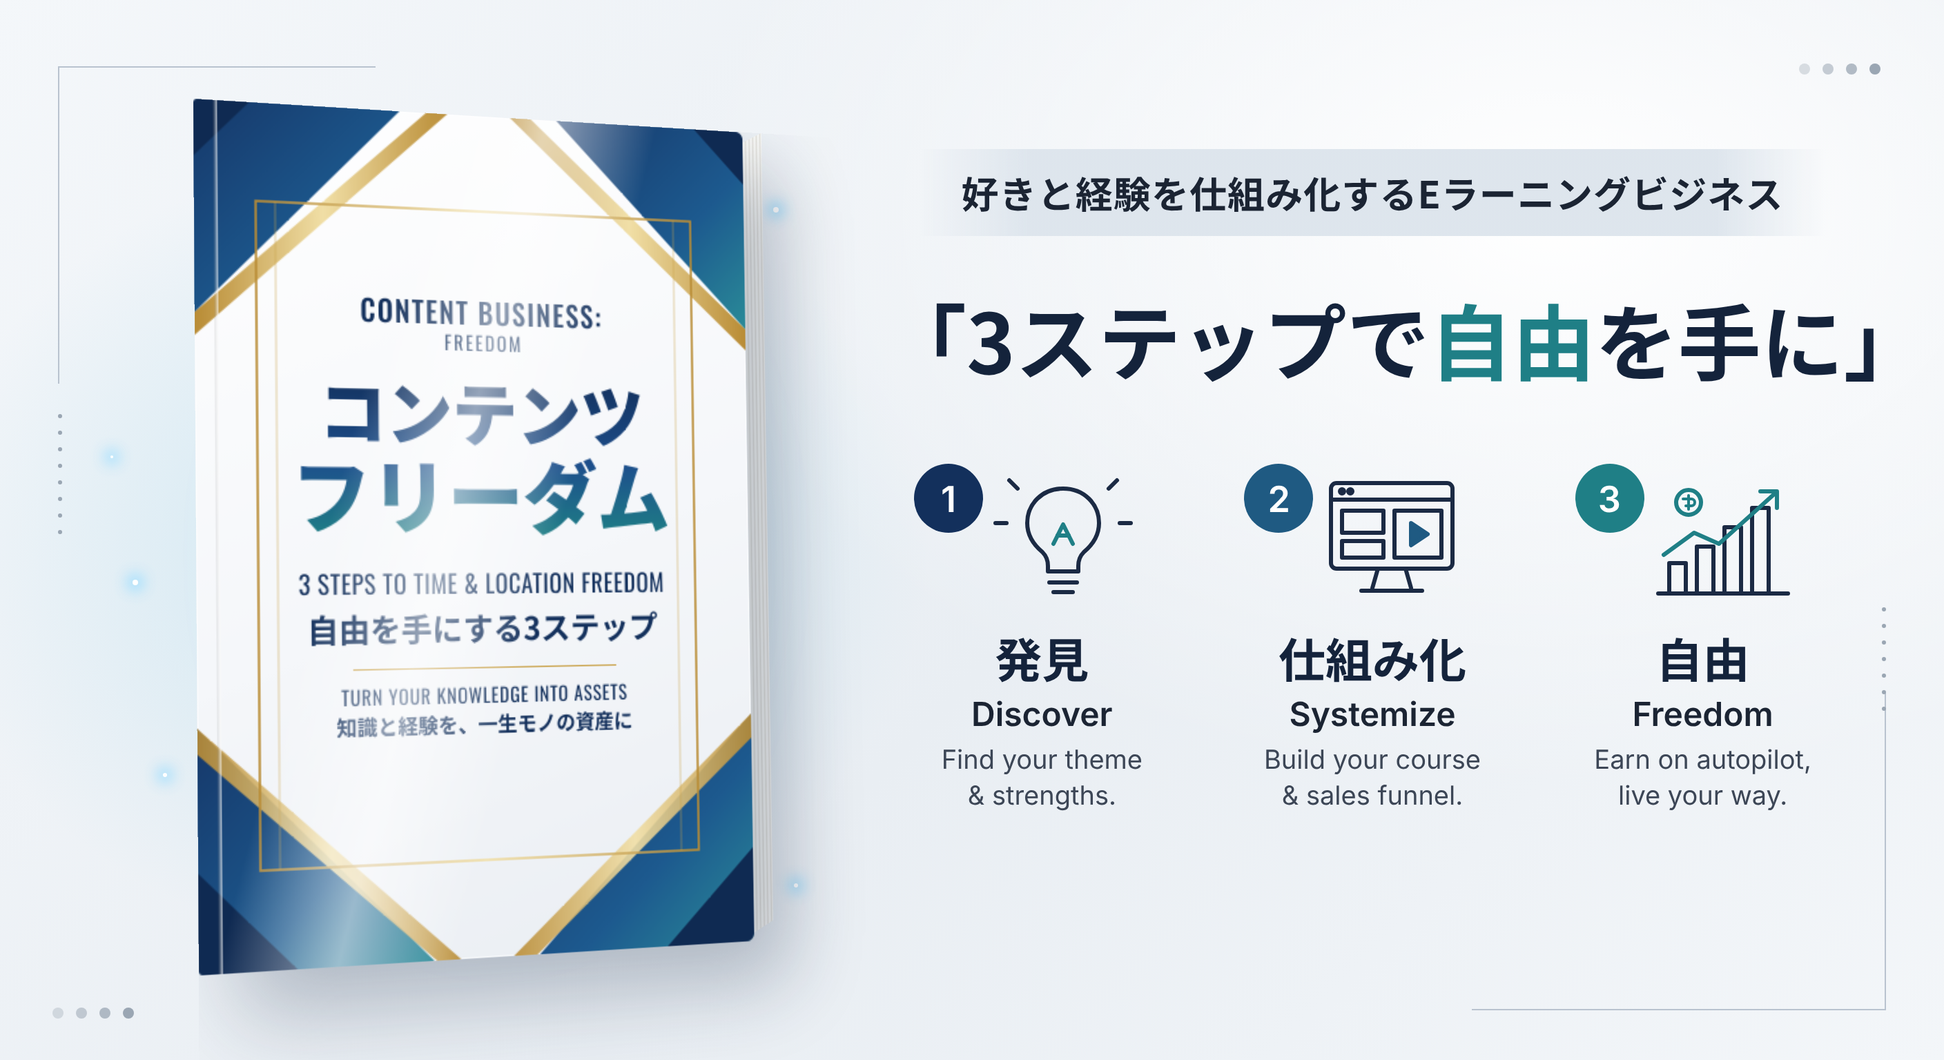
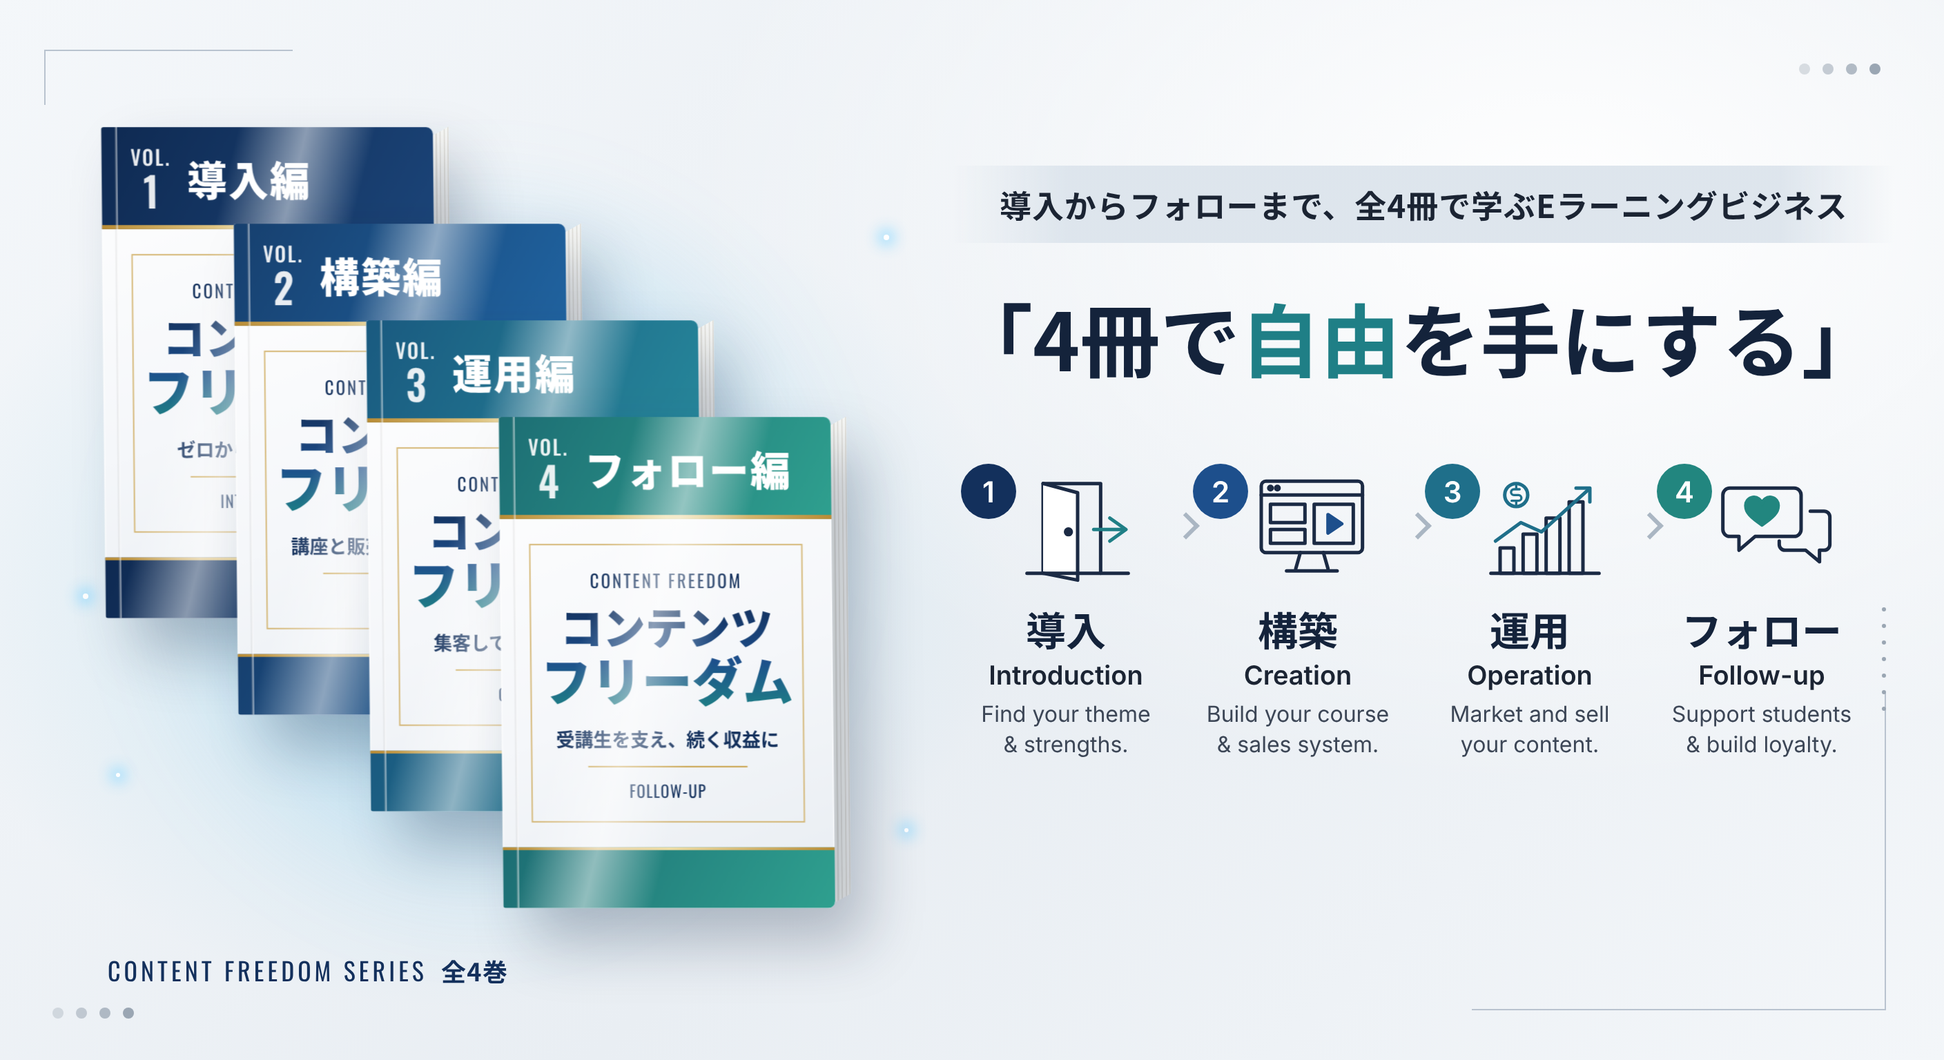
Show Content Freedom as a 4-volume series (intro to follow-up)
Claude-Session: https://claude.ai/code/session_01B6jzY4wT8CYfyJRjWWeuhY

diff --git a/content-freedom-catch/index.html b/content-freedom-catch/index.html
@@ -10,9 +10,7 @@
     --navy: #13305c;
     --blue: #1d4f8c;
     --teal: #1f7f86;
-    --teal2: #2a9d9a;
     --gold: #c9a24a;
-    --gold-l: #ead9a6;
     --ink: #1b2433;
     --muted: #3c4656;
   }
@@ -22,7 +20,7 @@
     font-family: "Noto Sans JP", "IPAGothic", sans-serif;
     color: var(--ink);
     background:
-      radial-gradient(ellipse 520px 420px at 22% 52%, rgba(120, 200, 230, .28), transparent 70%),
+      radial-gradient(ellipse 560px 440px at 24% 55%, rgba(120, 200, 230, .28), transparent 70%),
       radial-gradient(ellipse 900px 600px at 80% 20%, #ffffff, transparent 70%),
       linear-gradient(135deg, #f4f7fa 0%, #e9eef3 55%, #f3f6f9 100%);
     position: relative;
@@ -30,7 +28,7 @@
 
   /* ---------- decorative frame ---------- */
   .corner { position: absolute; border-color: #b9c3cf; border-style: solid; }
-  .corner.tl { left: 42px; top: 48px; width: 230px; height: 230px; border-width: 1px 0 0 1px; }
+  .corner.tl { left: 32px; top: 36px; width: 180px; height: 40px; border-width: 1px 0 0 1px; }
   .corner.br { right: 42px; bottom: 36px; width: 300px; height: 230px; border-width: 0 1px 1px 0; }
   .dots { position: absolute; display: flex; gap: 9px; }
   .dots i { width: 8px; height: 8px; border-radius: 50%; background: #9aa6b3; display: block; }
@@ -39,86 +37,92 @@
   .dots.bl { left: 38px; bottom: 30px; }
   .vdots { position: absolute; display: flex; flex-direction: column; gap: 9px; }
   .vdots i { width: 3px; height: 3px; border-radius: 50%; background: #9aa6b3; display: block; }
-  .vdots.l { left: 42px; top: 300px; } .vdots.r { right: 42px; top: 440px; }
+  .vdots.r { right: 42px; top: 440px; }
   .sparkle { position: absolute; border-radius: 50%; background: #fff; box-shadow: 0 0 10px 4px rgba(150, 220, 255, .9); }
 
-  /* ---------- book ---------- */
-  .book-wrap { position: absolute; left: 140px; top: 82px; width: 420px; height: 610px; perspective: 1600px; }
+  /* ---------- book series ---------- */
+  .shelf { position: absolute; left: 0; top: 0; width: 680px; height: 768px; perspective: 1800px; }
+  .glow {
+    position: absolute; left: 90px; top: 120px; width: 520px; height: 560px;
+    background: radial-gradient(ellipse at center, rgba(90, 190, 240, .5), transparent 70%);
+    filter: blur(30px);
+  }
   .book {
-    position: absolute; inset: 0;
-    transform: rotateY(18deg) rotateX(2deg);
+    position: absolute; width: 250px; height: 356px;
+    transform: rotateY(16deg) rotateX(2deg);
     transform-style: preserve-3d;
   }
-  .glow {
-    position: absolute; left: 30px; top: 40px; width: 380px; height: 560px;
-    background: radial-gradient(ellipse at center, rgba(90, 190, 240, .55), transparent 70%);
-    filter: blur(28px);
-  }
-  .spine {
-    position: absolute; left: 0; top: 0; width: 56px; height: 100%;
-    transform-origin: right center; transform: translateX(-56px) rotateY(-90deg) translateZ(0);
-    transform: translateX(-28px) translateZ(-28px) rotateY(-90deg);
-    background: linear-gradient(90deg, #e9edf2, #ffffff 45%, #dfe5ec);
-    display: flex; align-items: center; justify-content: center;
-  }
-  .spine span {
-    writing-mode: vertical-rl; font-family: "Oswald", sans-serif; font-weight: 500;
-    font-size: 17px; letter-spacing: .08em; color: var(--navy);
-  }
   .pages {
-    position: absolute; right: -16px; top: 8px; width: 16px; height: calc(100% - 14px);
+    position: absolute; right: -12px; top: 6px; width: 12px; height: calc(100% - 10px);
     background: repeating-linear-gradient(90deg, #fbfbf8 0 2px, #e7e5df 2px 3px);
     transform: skewY(-28deg); transform-origin: left top;
   }
   .cover {
-    position: absolute; inset: 0; border-radius: 3px 6px 6px 3px; overflow: hidden;
-    background: linear-gradient(160deg, #ffffff 0%, #f5f7fa 55%, #eaeef3 100%);
-    box-shadow: 30px 30px 60px rgba(20, 40, 70, .28), 0 0 0 1px rgba(255,255,255,.6) inset;
+    position: absolute; inset: 0; border-radius: 2px 5px 5px 2px; overflow: hidden;
+    background: linear-gradient(160deg, #ffffff 0%, #f5f7fa 55%, #e8edf2 100%);
+    box-shadow: 22px 24px 44px rgba(20, 40, 70, .28), 0 0 0 1px rgba(255,255,255,.6) inset;
   }
-  .cover::after { /* sheen */
+  .cover::after {
     content: ""; position: absolute; inset: 0;
-    background: linear-gradient(105deg, rgba(255,255,255,0) 30%, rgba(255,255,255,.55) 45%, rgba(255,255,255,0) 60%);
+    background: linear-gradient(105deg, rgba(255,255,255,0) 30%, rgba(255,255,255,.5) 45%, rgba(255,255,255,0) 60%);
   }
-  .hinge { position: absolute; left: 14px; top: 0; bottom: 0; width: 3px; background: linear-gradient(90deg, rgba(0,0,0,.08), rgba(255,255,255,.7)); }
-  .cover svg.deco { position: absolute; inset: 0; width: 100%; height: 100%; }
-  .cover-inner {
-    position: absolute; left: 50px; right: 46px; top: 132px; text-align: center;
+  .hinge { position: absolute; left: 10px; top: 0; bottom: 0; width: 2px; background: linear-gradient(90deg, rgba(0,0,0,.08), rgba(255,255,255,.7)); }
+  .band {
+    position: absolute; left: 0; right: 0; top: 0; height: 74px;
+    display: flex; align-items: center; gap: 12px; padding-left: 22px; color: #fff;
   }
-  .en-top { font-family: "Oswald", sans-serif; font-weight: 500; color: var(--navy); font-size: 21px; letter-spacing: .06em; line-height: 1.15; }
-  .en-top small { display: block; font-size: 14px; font-weight: 400; letter-spacing: .12em; margin-top: 2px; }
-  .jp-title {
-    margin-top: 14px; font-weight: 900; line-height: 1.08; font-size: 50px; letter-spacing: -.01em;
+  .band::after { content: ""; position: absolute; left: 0; right: 0; bottom: 0; height: 3px; background: linear-gradient(90deg, #b98c35, #f1dfa6, #b98c35); }
+  .vol { font-family: "Oswald", sans-serif; font-weight: 500; font-size: 15px; letter-spacing: .08em; line-height: 1; text-align: center; opacity: .9; }
+  .vol b { display: block; font-size: 30px; font-weight: 600; letter-spacing: 0; margin-top: 2px; }
+  .part { font-weight: 900; font-size: 30px; letter-spacing: .04em; }
+  .foot { position: absolute; left: 0; right: 0; bottom: 0; height: 44px; }
+  .foot::before { content: ""; position: absolute; left: 0; right: 0; top: 0; height: 2px; background: linear-gradient(90deg, #b98c35, #f1dfa6, #b98c35); }
+  .frame { position: absolute; left: 22px; right: 22px; top: 92px; bottom: 62px; border: 1px solid rgba(201,162,74,.75); }
+  .inner { position: absolute; left: 24px; right: 24px; top: 108px; text-align: center; }
+  .en { font-family: "Oswald", sans-serif; font-size: 13px; letter-spacing: .12em; color: var(--navy); }
+  .title {
+    margin-top: 6px; font-weight: 900; font-size: 32px; line-height: 1.1;
     background: linear-gradient(180deg, var(--navy) 0%, var(--blue) 55%, var(--teal) 100%);
     -webkit-background-clip: text; background-clip: text; color: transparent;
   }
-  .jp-title .big { font-size: 58px; white-space: nowrap; display: block; margin-top: 2px; }
-  .en-mid { margin-top: 20px; font-family: "Oswald", sans-serif; font-size: 18px; letter-spacing: .03em; color: var(--navy); }
-  .jp-mid { font-weight: 700; font-size: 23px; color: var(--navy); margin-top: 2px; }
-  .rule { width: 200px; height: 1px; background: var(--gold); margin: 12px auto 8px; }
-  .en-bot { font-family: "Oswald", sans-serif; font-size: 14px; letter-spacing: .05em; color: var(--navy); }
-  .jp-bot { font-weight: 700; font-size: 15px; color: var(--navy); }
+  .title span { display: block; font-size: 38px; }
+  .sub { margin-top: 12px; font-weight: 700; font-size: 14px; color: var(--navy); }
+  .rule { width: 120px; height: 1px; background: var(--gold); margin: 10px auto 8px; }
+  .sub-en { font-family: "Oswald", sans-serif; font-size: 12px; letter-spacing: .06em; color: var(--navy); }
+
+  .c1 .band, .c1 .foot { background: linear-gradient(120deg, #0f2a52, #1b4478); }
+  .c2 .band, .c2 .foot { background: linear-gradient(120deg, #17406f, #2063a0); }
+  .c3 .band, .c3 .foot { background: linear-gradient(120deg, #1a5a80, #26869a); }
+  .c4 .band, .c4 .foot { background: linear-gradient(120deg, #1d6e74, #2fa08f); }
+
+  .series-tag {
+    position: absolute; left: 78px; top: 690px;
+    font-family: "Oswald", sans-serif; font-size: 18px; letter-spacing: .14em; color: var(--navy);
+  }
+  .series-tag b { font-family: "Noto Sans JP", sans-serif; font-weight: 700; letter-spacing: .04em; margin-left: 10px; }
 
   /* ---------- right copy ---------- */
-  .copy { position: absolute; left: 640px; right: 60px; top: 108px; text-align: center; }
+  .copy { position: absolute; left: 690px; right: 50px; top: 120px; text-align: center; }
   .badge {
-    display: inline-block; padding: 12px 30px; font-weight: 700; font-size: 27px; color: var(--ink);
+    display: inline-block; padding: 11px 34px; font-weight: 700; font-size: 23px; white-space: nowrap; color: var(--ink);
     background: linear-gradient(90deg, rgba(220,228,236,0), rgba(220,228,236,.95) 12%, rgba(220,228,236,.95) 88%, rgba(220,228,236,0));
     letter-spacing: .02em;
   }
-  .headline { margin-top: 30px; font-weight: 700; font-size: 60px; letter-spacing: 0; color: #14233b; white-space: nowrap; }
+  .headline { margin-top: 26px; font-weight: 700; font-size: 58px; color: #14233b; white-space: nowrap; }
   .headline .hl { color: var(--teal); }
-  .steps { margin-top: 54px; display: grid; grid-template-columns: repeat(3, 1fr); gap: 10px; }
+  .steps { margin-top: 56px; display: grid; grid-template-columns: repeat(4, 1fr); gap: 4px; }
   .step { position: relative; display: flex; flex-direction: column; align-items: center; }
   .num {
-    position: absolute; left: 22px; top: -6px; width: 50px; height: 50px; border-radius: 50%;
-    color: #fff; font-family: "Inter", sans-serif; font-weight: 600; font-size: 26px;
+    position: absolute; left: 6px; top: -6px; width: 40px; height: 40px; border-radius: 50%;
+    color: #fff; font-family: "Inter", sans-serif; font-weight: 600; font-size: 21px;
     display: flex; align-items: center; justify-content: center;
   }
-  .s1 .num { background: var(--navy); } .s2 .num { background: #1f5a82; } .s3 .num { background: var(--teal); }
-  .icon { width: 110px; height: 96px; margin-left: 30px; }
-  .step h3 { margin-top: 14px; font-size: 34px; font-weight: 700; color: #14233b; }
-  .step h4 { font-family: "Inter", sans-serif; font-size: 24px; font-weight: 600; color: var(--ink); margin-top: 2px; }
-  .step p { font-family: "Inter", sans-serif; font-size: 19px; color: var(--muted); margin-top: 6px; line-height: 1.35; }
+  .s1 .num { background: #13305c; } .s2 .num { background: #1d4f8c; } .s3 .num { background: #1f6f8a; } .s4 .num { background: #22867f; }
+  .icon { width: 92px; height: 80px; margin-left: 22px; }
+  .step h3 { margin-top: 12px; font-size: 29px; font-weight: 700; color: #14233b; }
+  .step h4 { font-family: "Inter", sans-serif; font-size: 19px; font-weight: 600; color: var(--ink); margin-top: 2px; }
+  .step p { font-family: "Inter", sans-serif; font-size: 16px; color: var(--muted); margin-top: 6px; line-height: 1.35; }
+  .arrow { position: absolute; right: -12px; top: 32px; width: 14px; height: 14px; border-top: 3px solid #aab6c3; border-right: 3px solid #aab6c3; transform: rotate(45deg); }
 </style>
 </head>
 <body>
@@ -126,115 +130,112 @@
   <div class="corner br"></div>
   <div class="dots tr"><i></i><i></i><i></i><i></i></div>
   <div class="dots bl"><i></i><i></i><i></i><i></i></div>
-  <div class="vdots l"><i></i><i></i><i></i><i></i><i></i><i></i><i></i><i></i></div>
   <div class="vdots r"><i></i><i></i><i></i><i></i><i></i><i></i><i></i></div>
-  <span class="sparkle" style="left:96px;top:420px;width:4px;height:4px"></span>
-  <span class="sparkle" style="left:118px;top:560px;width:3px;height:3px"></span>
-  <span class="sparkle" style="left:560px;top:150px;width:4px;height:4px"></span>
-  <span class="sparkle" style="left:575px;top:640px;width:3px;height:3px"></span>
-  <span class="sparkle" style="left:80px;top:330px;width:2px;height:2px"></span>
+  <span class="sparkle" style="left:60px;top:430px;width:4px;height:4px"></span>
+  <span class="sparkle" style="left:640px;top:170px;width:4px;height:4px"></span>
+  <span class="sparkle" style="left:655px;top:600px;width:3px;height:3px"></span>
+  <span class="sparkle" style="left:84px;top:560px;width:3px;height:3px"></span>
 
-  <!-- book -->
-  <div class="book-wrap">
+  <!-- book series: back (Vol.1) to front (Vol.4) -->
+  <div class="shelf">
     <div class="glow"></div>
-    <div class="book">
-      <div class="spine"><span>CONTENT FREEDOM ・ コンテンツフリーダム</span></div>
-      <div class="pages"></div>
-      <div class="cover">
-        <svg class="deco" viewBox="0 0 420 610" preserveAspectRatio="none">
-          <defs>
-            <linearGradient id="bl" x1="0" y1="0" x2="1" y2="1">
-              <stop offset="0" stop-color="#16386a"/><stop offset=".6" stop-color="#1d5a8f"/><stop offset="1" stop-color="#2a8b98"/>
-            </linearGradient>
-            <linearGradient id="gd" x1="0" y1="0" x2="1" y2="0">
-              <stop offset="0" stop-color="#b98c35"/><stop offset=".5" stop-color="#f1dfa6"/><stop offset="1" stop-color="#b98c35"/>
-            </linearGradient>
-          </defs>
-          <!-- top-left / top-right triangles -->
-          <polygon points="0,0 150,0 0,150" fill="url(#bl)"/>
-          <polygon points="0,150 170,0 186,0 0,166" fill="url(#gd)"/>
-          <polygon points="420,0 270,0 420,150" fill="url(#bl)"/>
-          <polygon points="420,150 250,0 234,0 420,166" fill="url(#gd)"/>
-          <polygon points="0,0 40,0 0,40" fill="#0f2a52"/>
-          <polygon points="420,0 380,0 420,40" fill="#0f2a52"/>
-          <!-- bottom triangles -->
-          <polygon points="0,610 170,610 0,440" fill="url(#bl)"/>
-          <polygon points="0,440 190,610 172,610 0,458" fill="url(#gd)" opacity=".9"/>
-          <polygon points="420,610 250,610 420,440" fill="url(#bl)"/>
-          <polygon points="420,440 230,610 248,610 420,458" fill="url(#gd)" opacity=".9"/>
-          <polygon points="0,610 70,610 0,540" fill="#0f2a52"/>
-          <polygon points="420,610 350,610 420,540" fill="#0f2a52"/>
-          <!-- thin gold frame -->
-          <rect x="44" y="70" width="332" height="470" fill="none" stroke="url(#gd)" stroke-width="1.6"/>
-          <line x1="58" y1="70" x2="58" y2="540" stroke="#c9a24a" stroke-width=".8" opacity=".6"/>
-          <line x1="362" y1="70" x2="362" y2="540" stroke="#c9a24a" stroke-width=".8" opacity=".6"/>
-        </svg>
-        <div class="hinge"></div>
-        <div class="cover-inner">
-          <div class="en-top">CONTENT BUSINESS:<small>FREEDOM</small></div>
-          <div class="jp-title">コンテンツ<span class="big">フリーダム</span></div>
-          <div class="en-mid">3 STEPS TO TIME &amp; LOCATION FREEDOM</div>
-          <div class="jp-mid">自由を手にする3ステップ</div>
-          <div class="rule"></div>
-          <div class="en-bot">TURN YOUR KNOWLEDGE INTO ASSETS</div>
-          <div class="jp-bot">知識と経験を、一生モノの資産に</div>
-        </div>
-      </div>
-    </div>
+    <div id="books"></div>
+    <div class="series-tag">CONTENT FREEDOM SERIES<b>全4巻</b></div>
   </div>
 
   <!-- copy -->
   <div class="copy">
-    <div class="badge">好きと経験を仕組み化するEラーニングビジネス</div>
-    <div class="headline">「3ステップで<span class="hl">自由</span>を手に」</div>
+    <div class="badge">導入からフォローまで、全4冊で学ぶEラーニングビジネス</div>
+    <div class="headline">「4冊で<span class="hl">自由</span>を手にする」</div>
 
     <div class="steps">
       <div class="step s1">
         <div class="num">1</div>
         <svg class="icon" viewBox="0 0 110 96" fill="none" stroke="#1b2a44" stroke-width="3" stroke-linejoin="round" stroke-linecap="round">
-          <!-- lightbulb: discover your theme -->
-          <path d="M55 12c-15 0-26 11-26 25 0 9 5 16 11 21 3 3 4 6 4 10v4h22v-4c0-4 1-7 4-10 6-5 11-12 11-21 0-14-11-25-26-25z"/>
-          <line x1="45" y1="80" x2="65" y2="80"/><line x1="48" y1="87" x2="62" y2="87"/>
-          <path d="M48 52l7-14 7 14" stroke="#1f7f86"/><line x1="51" y1="46" x2="59" y2="46" stroke="#1f7f86"/>
-          <line x1="14" y1="37" x2="6" y2="37"/><line x1="96" y1="37" x2="104" y2="37"/>
-          <line x1="22" y1="12" x2="16" y2="6"/><line x1="88" y1="12" x2="94" y2="6"/>
+          <!-- open door / start -->
+          <path d="M22 88V10h50v78"/><path d="M22 10l30 8v76l-30-6" fill="#fff"/>
+          <circle cx="44" cy="52" r="2.5" fill="#1b2a44"/>
+          <line x1="8" y1="88" x2="96" y2="88"/>
+          <path d="M80 40l14 10-14 10" stroke="#1f7f86"/><line x1="66" y1="50" x2="93" y2="50" stroke="#1f7f86"/>
         </svg>
-        <h3>発見</h3>
-        <h4>Discover</h4>
+        <h3>導入</h3>
+        <h4>Introduction</h4>
         <p>Find your theme<br>&amp; strengths.</p>
+        <i class="arrow"></i>
       </div>
       <div class="step s2">
         <div class="num">2</div>
         <svg class="icon" viewBox="0 0 110 96" fill="none" stroke="#1b2a44" stroke-width="3" stroke-linejoin="round" stroke-linecap="round">
-          <!-- monitor + gear: build course & system -->
+          <!-- monitor with video: build the course -->
           <rect x="10" y="8" width="88" height="62" rx="4"/>
           <line x1="10" y1="20" x2="98" y2="20"/>
           <circle cx="18" cy="14" r="1.5" fill="#1b2a44"/><circle cx="24" cy="14" r="1.5" fill="#1b2a44"/>
           <rect x="18" y="28" width="30" height="16"/><rect x="18" y="50" width="30" height="12"/>
           <rect x="56" y="28" width="34" height="34"/>
-          <path d="M68 37l12 8-12 8z" fill="#1f5a82" stroke="#1f5a82"/>
+          <path d="M68 37l12 8-12 8z" fill="#1d4f8c" stroke="#1d4f8c"/>
           <line x1="44" y1="70" x2="40" y2="84"/><line x1="64" y1="70" x2="68" y2="84"/><line x1="32" y1="86" x2="76" y2="86"/>
         </svg>
-        <h3>仕組み化</h3>
-        <h4>Systemize</h4>
-        <p>Build your course<br>&amp; sales funnel.</p>
+        <h3>構築</h3>
+        <h4>Creation</h4>
+        <p>Build your course<br>&amp; sales system.</p>
+        <i class="arrow"></i>
       </div>
       <div class="step s3">
         <div class="num">3</div>
         <svg class="icon" viewBox="0 0 110 96" fill="none" stroke="#1b2a44" stroke-width="3" stroke-linejoin="round" stroke-linecap="round">
-          <!-- growth bars + bird: freedom -->
+          <!-- growth chart: sell -->
           <line x1="8" y1="88" x2="102" y2="88"/>
           <rect x="16" y="66" width="12" height="22"/><rect x="36" y="54" width="12" height="34"/>
           <rect x="56" y="40" width="12" height="48"/><rect x="76" y="26" width="12" height="62"/>
-          <path d="M12 60l22-16 18 8 40-36" stroke="#1f7f86"/>
-          <path d="M82 14h12v12" stroke="#1f7f86"/>
-          <circle cx="30" cy="22" r="9" stroke="#1f7f86"/><path d="M30 17v10M26 19.5h6a2.5 2.5 0 010 5h-4" stroke="#1f7f86" stroke-width="2"/>
+          <path d="M12 60l22-16 18 8 40-36" stroke="#1f6f8a"/>
+          <path d="M82 14h12v12" stroke="#1f6f8a"/>
+          <circle cx="30" cy="20" r="10" stroke="#1f6f8a"/><path d="M33 15h-5a2.5 2.5 0 000 5h4a2.5 2.5 0 010 5h-6M30 12v3M30 25v3" stroke="#1f6f8a" stroke-width="2"/>
         </svg>
-        <h3>自由</h3>
-        <h4>Freedom</h4>
-        <p>Earn on autopilot,<br>live your way.</p>
+        <h3>運用</h3>
+        <h4>Operation</h4>
+        <p>Market and sell<br>your content.</p>
+        <i class="arrow"></i>
+      </div>
+      <div class="step s4">
+        <div class="num">4</div>
+        <svg class="icon" viewBox="0 0 110 96" fill="none" stroke="#1b2a44" stroke-width="3" stroke-linejoin="round" stroke-linecap="round">
+          <!-- chat + heart: follow-up -->
+          <path d="M14 14h56a6 6 0 016 6v30a6 6 0 01-6 6H36l-14 12V56h-8a6 6 0 01-6-6V20a6 6 0 016-6z"/>
+          <path d="M42 46c-10-7-14-11-14-16a6 6 0 0114-2 6 6 0 0114 2c0 5-4 9-14 16z" fill="#22867f" stroke="#22867f"/>
+          <path d="M84 34h12a5 5 0 015 5v24a5 5 0 01-5 5h-4v10l-12-10H62a5 5 0 01-5-5v-3"/>
+        </svg>
+        <h3>フォロー</h3>
+        <h4>Follow-up</h4>
+        <p>Support students<br>&amp; build loyalty.</p>
       </div>
     </div>
   </div>
+
+<script>
+  const vols = [
+    { part: '導入編',     en: 'INTRODUCTION', sub: 'ゼロから始める第一歩' },
+    { part: '構築編',     en: 'CREATION',     sub: '講座と販売の仕組みづくり' },
+    { part: '運用編',     en: 'OPERATION',    sub: '集客して、売れる流れへ' },
+    { part: 'フォロー編', en: 'FOLLOW-UP',    sub: '受講生を支え、続く収益に' },
+  ];
+  const pos = [[70, 92], [166, 162], [262, 232], [358, 302]];
+  document.getElementById('books').innerHTML = vols.map((v, i) => `
+    <div class="book c${i + 1}" style="left:${pos[i][0]}px;top:${pos[i][1]}px;z-index:${i + 1}">
+      <div class="pages"></div>
+      <div class="cover">
+        <div class="band"><div class="vol">VOL.<b>${i + 1}</b></div><div class="part">${v.part}</div></div>
+        <div class="frame"></div>
+        <div class="inner">
+          <div class="en">CONTENT FREEDOM</div>
+          <div class="title">コンテンツ<span>フリーダム</span></div>
+          <div class="sub">${v.sub}</div>
+          <div class="rule"></div>
+          <div class="sub-en">${v.en}</div>
+        </div>
+        <div class="foot"></div>
+        <div class="hinge"></div>
+      </div>
+    </div>`).join('');
+</script>
 </body>
 </html>
